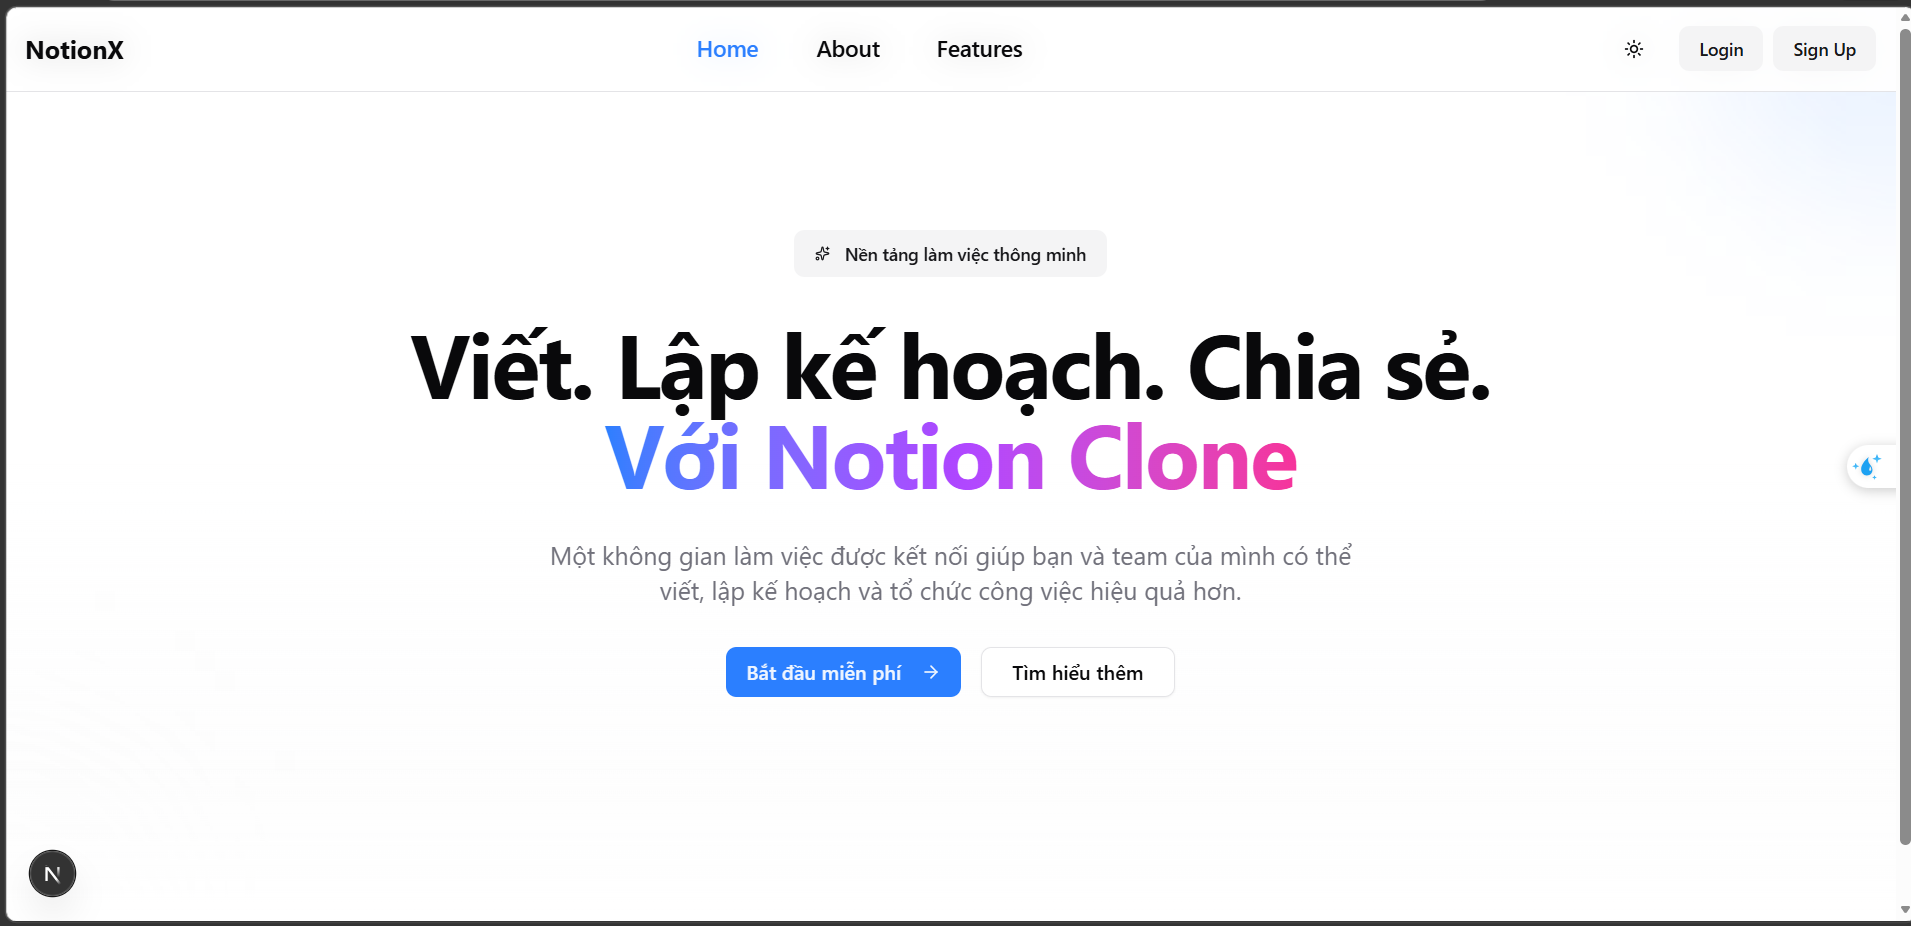
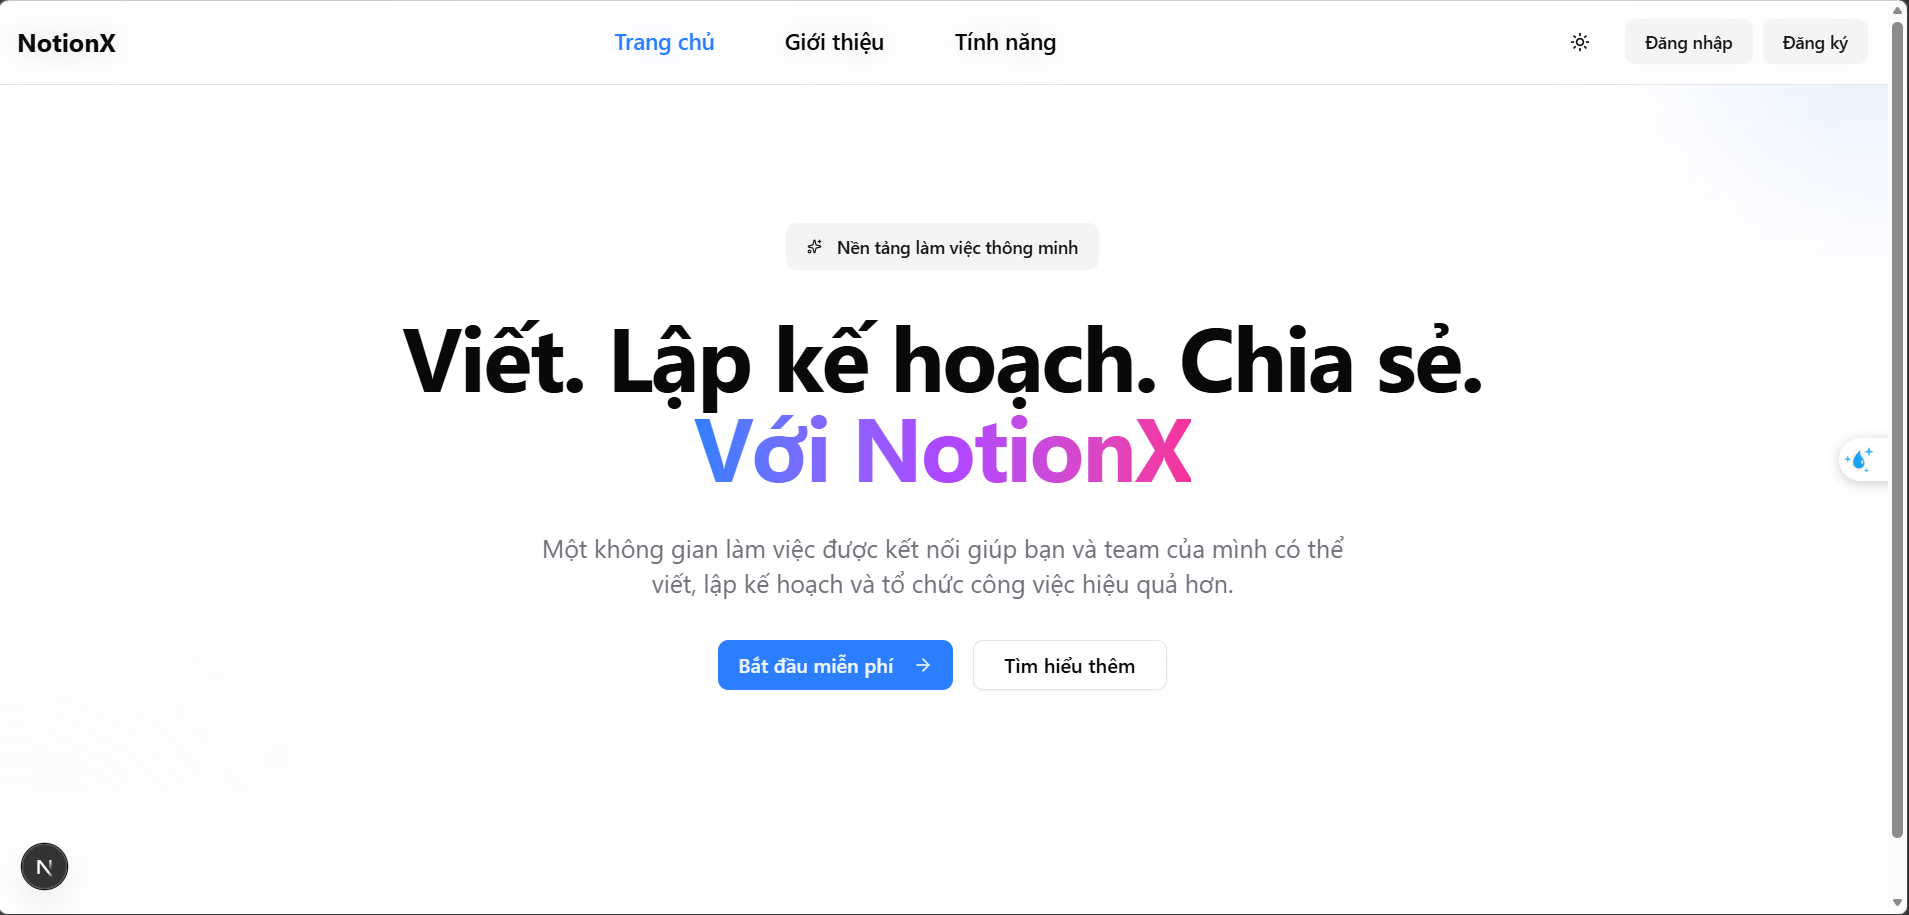
docs: add readme.md

diff --git a/notion-fe/src/shared/components/layout/Topbar/index.tsx b/notion-fe/src/shared/components/layout/Topbar/index.tsx
@@ -1,7 +1,7 @@
 "use client";
 
 import { useState } from "react";
-import { Search, User, LogOut, ChevronRight } from "lucide-react";
+import { Search, User, LogOut } from "lucide-react";
 import { motion, AnimatePresence } from "framer-motion";
 import { useRouter } from "next/navigation";
 
@@ -21,11 +21,6 @@ import { scaleIn } from "../../common/MotionWrapper";
 import { ModeToggle } from "../../common/ModeToggle";
 import useAuthStore from "@/shared/store/useAuthStore";
 import { useLogout } from "@/features/auth";
-
-const breadcrumbs = [
-  { label: "Bắt đầu", href: "#" },
-  { label: "Chào mừng", href: "#" },
-];
 
 export function Topbar() {
   const router = useRouter();
@@ -50,22 +45,7 @@ export function Topbar() {
 
   return (
     <header className="sticky top-0 z-30 border-b border-border backdrop-blur supports-backdrop-filter:bg-background/60">
-      <div className="flex h-14 items-center gap-4 px-4 lg:px-6">
-        {/* Breadcrumb Navigation */}
-        <nav className="hidden md:flex items-center gap-1 text-sm text-muted-foreground flex-1">
-          {breadcrumbs.map((crumb, index) => (
-            <div key={index} className="flex items-center gap-1">
-              {index > 0 && <ChevronRight className="h-3 w-3" />}
-              <button
-                className="hover:text-foreground transition-colors"
-                onClick={() => toast.info(`Đi tới ${crumb.label}`)}
-              >
-                {crumb.label}
-              </button>
-            </div>
-          ))}
-        </nav>
-
+      <div className="flex h-14 items-center justify-between gap-4 px-4 lg:px-6">
         {/* Search Bar */}
         <div className="flex-1 md:flex-none md:w-96">
           <div className="relative">
@@ -121,7 +101,9 @@ export function Topbar() {
                     </DropdownMenuLabel>
                     <DropdownMenuSeparator />
                     <DropdownMenuItem
-                      onClick={() => toast.info("Tính năng hồ sơ sẽ sớm ra mắt")}
+                      onClick={() =>
+                        toast.info("Tính năng hồ sơ sẽ sớm ra mắt")
+                      }
                       className="cursor-pointer"
                     >
                       <User className="mr-2 h-4 w-4" />
@@ -134,7 +116,9 @@ export function Topbar() {
                       className="cursor-pointer text-destructive focus:text-destructive"
                     >
                       <LogOut className="mr-2 h-4 w-4" />
-                      <span>{isLoggingOut ? "Đang đăng xuất..." : "Đăng xuất"}</span>
+                      <span>
+                        {isLoggingOut ? "Đang đăng xuất..." : "Đăng xuất"}
+                      </span>
                     </DropdownMenuItem>
                   </motion.div>
                 </DropdownMenuContent>

diff --git a/notion-fe/src/app/(root)/(landing)/features/page.tsx b/notion-fe/src/app/(root)/(landing)/features/page.tsx
@@ -18,7 +18,7 @@ import {
 
 export default function FeaturesPage() {
   return (
-    <div className="min-h-screen bg-background">
+    <div className="min-h-screen bg-background m-auto px-4 md:px-6">
       <Separator className="my-12" />
 
       {/* Main Features Grid */}

diff --git a/notion-fe/src/app/(root)/(landing)/layout.tsx b/notion-fe/src/app/(root)/(landing)/layout.tsx
@@ -6,7 +6,7 @@ export default function Layout({ children }: { children: React.ReactNode }) {
   return (
     <div>
       <Header />
-      <main>{children}</main>
+      <main className="flex justify-center">{children}</main>
       <Footer />
     </div>
   );

diff --git a/README.md b/README.md
@@ -1,0 +1,240 @@
+# Notion Clone
+
+A fullstack Notion-style workspace app built with a modern TypeScript stack.
+
+## Overview
+
+This repository contains two applications:
+
+- `notion-fe`: Next.js frontend (App Router)
+- `notion-be`: Express backend API with Prisma ORM
+
+Core capabilities include authentication, workspace, pages, and block-based content.
+
+## Screenshots
+
+### Home
+
+![Home](docs/images/home.png)
+
+### Login
+
+![Login](docs/images/login.png)
+
+### Register
+
+![Register](docs/images/register.png)
+
+### Features
+
+![Features](docs/images/feature.png)
+
+### Editor / Workspace
+
+![Editor](docs/images/editor.png)
+
+## Tech Stack
+
+### Frontend (`notion-fe`)
+
+- Next.js 15
+- React 19
+- Tailwind CSS 4
+- Zustand, SWR, Axios
+
+### Backend (`notion-be`)
+
+- Node.js + Express + TypeScript
+- Prisma ORM
+- PostgreSQL
+- Redis
+- JWT authentication
+- Swagger API docs
+
+## Project Structure
+
+```text
+.
+|-- notion-fe/
+|   |-- public/                 # Static assets
+|   |-- src/
+|   |   |-- app/                # App Router pages/layouts
+|   |   |-- features/           # Feature modules (auth/page/workspace/block)
+|   |   |-- hooks/              # Reusable React hooks
+|   |   `-- shared/             # Shared UI, libs, store, types, utils
+|   |-- package.json
+|   `-- next.config.ts
+|-- notion-be/
+|   |-- prisma/
+|   |   |-- schema.prisma       # Prisma data model
+|   |   `-- migrations/         # Database migrations
+|   |-- src/
+|   |   |-- controllers/        # HTTP handlers
+|   |   |-- services/           # Business logic
+|   |   |-- repositories/       # Data access layer (Prisma)
+|   |   |-- middlewares/        # Auth, API key, validation, logging
+|   |   |-- router/             # Route registration
+|   |   |-- schemas/            # Zod validation schemas
+|   |   |-- config/             # App, CORS, Swagger config
+|   |   |-- utils/              # Shared backend utilities
+|   |   `-- app.ts              # Express bootstrap
+|   |-- tests/                  # Unit tests
+|   |-- docker-compose.yml      # Local Postgres + Redis
+|   `-- package.json
+|-- docs/
+|   `-- images/
+`-- README.md
+```
+
+Layering summary:
+
+- Frontend follows a feature-first structure under `src/features` and keeps cross-cutting code in `src/shared`.
+- Backend follows a controller -> service -> repository flow for clear separation of concerns.
+- Database evolution is tracked by Prisma migrations in `notion-be/prisma/migrations`.
+
+## Prerequisites
+
+- Node.js 20+
+- npm 10+
+- Docker + Docker Compose
+
+## Quick Start (Local Development)
+
+### 1. Start infrastructure services
+
+From `notion-be`:
+
+```bash
+cd notion-be
+docker compose up -d
+```
+
+This starts:
+
+- PostgreSQL on `localhost:5431`
+- Redis on `localhost:6378`
+
+### 2. Configure backend environment
+
+Create your backend env file from the template:
+
+```bash
+cd notion-be
+cp .env.example .env
+```
+
+Then review and update these values in `.env` for local development:
+
+```env
+# Runtime
+NODE_ENV=development
+
+# App
+DEV_APP_HOST=localhost
+DEV_APP_PORT=4000
+
+# PostgreSQL
+DEV_DB_HOST=localhost
+DEV_DB_PORT=5431
+DEV_DB_NAME=notion_db
+DEV_DB_USER=dev
+DEV_DB_PASSWORD=devpassword
+DATABASE_URL=postgresql://dev:devpassword@localhost:5431/notion_db?schema=public&api_key=your_dev_api_key
+
+# Redis
+DEV_REDIS_HOST=localhost
+DEV_REDIS_PORT=6378
+DEV_REDIS_DB=0
+
+# Security
+DEV_API_KEY=your_dev_api_key
+DEV_JWT_SECRET=replace_with_secure_secret
+
+# CORS
+CLIENT_URL=http://localhost:4400
+```
+
+Validation checklist before running migrations:
+
+- PostgreSQL is reachable on port `5431`.
+- Redis is reachable on port `6378`.
+- `NEXT_PUBLIC_API_KEY` in frontend matches backend `DEV_API_KEY`.
+
+Note: in this project Docker maps Redis to host port `6378`, so keep `DEV_REDIS_PORT=6378` unless you change `docker-compose.yml`.
+
+### 3. Install backend dependencies and run migrations
+
+```bash
+cd notion-be
+npm install
+npx prisma migrate dev
+npx prisma generate
+```
+
+### 4. Run backend
+
+```bash
+cd notion-be
+npm run dev
+```
+
+Backend is available at:
+
+- API base: `http://localhost:4000/api/v1`
+- Swagger UI: `http://localhost:4000/api-docs`
+- Swagger JSON: `http://localhost:4000/api-docs.json`
+
+All `/api/v1` routes require `X-Api-Key`.
+
+### 5. Configure frontend environment
+
+Create your frontend env file from the template:
+
+```bash
+cd notion-fe
+cp .env.example .env
+```
+
+Then verify these values in `.env`:
+
+```env
+# Backend API base URL
+NEXT_PUBLIC_API_URL=http://localhost:4000/api/v1
+
+# Must match backend DEV_API_KEY
+NEXT_PUBLIC_API_KEY=your_dev_api_key
+```
+
+Validation checklist before starting frontend:
+
+- `NEXT_PUBLIC_API_URL` points to the running backend (`http://localhost:4000/api/v1`).
+- `NEXT_PUBLIC_API_KEY` is exactly the same as backend `DEV_API_KEY`.
+- Backend is already running before testing authenticated flows.
+
+### 6. Run frontend
+
+```bash
+cd notion-fe
+npm install
+npm run dev
+```
+
+Frontend runs on `http://localhost:4400`.
+
+## Available Scripts
+
+### Backend (`notion-be`)
+
+- `npm run dev`: Run development server
+- `npm run build`: Compile TypeScript
+- `npm run test`: Run Vitest tests
+- `npm run lint`: Run ESLint
+- `npm run lint:fix`: Fix lint issues
+- `npm run format`: Run Prettier
+
+### Frontend (`notion-fe`)
+
+- `npm run dev`: Start Next.js dev server on port 4400
+- `npm run build`: Build production bundle
+- `npm run start`: Start production server
+- `npm run lint`: Run lint checks
